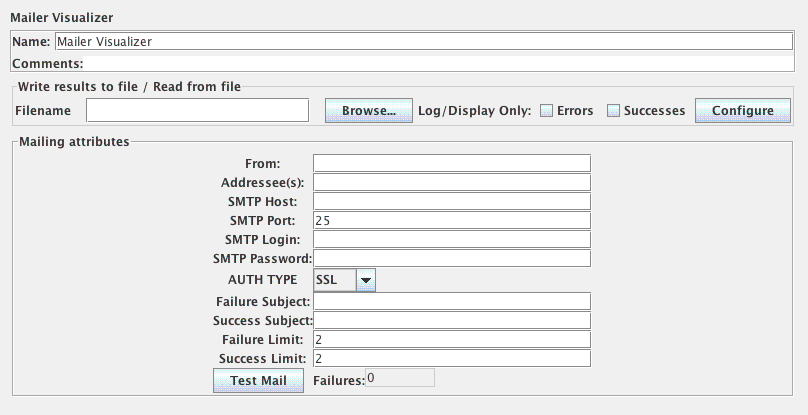
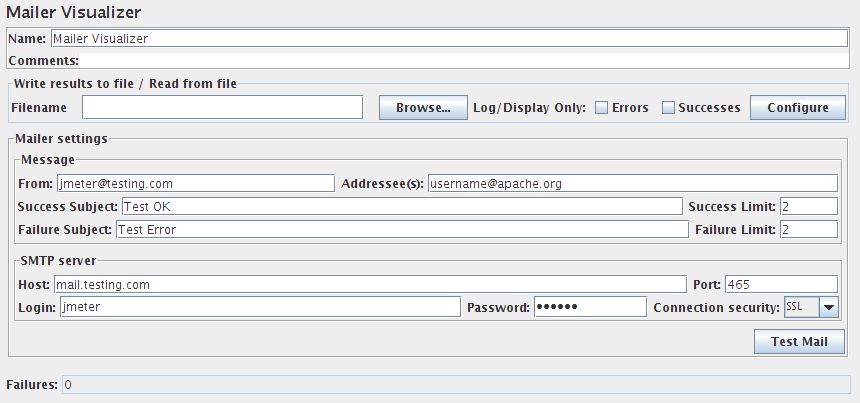
Bug 53246 - Mailer Visualizer: improve GUI design and I18N French translation added
git-svn-id: https://svn.apache.org/repos/asf/jmeter/trunk@1339294 13f79535-47bb-0310-9956-ffa450edef68

Former-commit-id: ed86ac7dc806940eaaa7e022576b7a0851dd6159

Changed region(s): [[0.0, 0.3275, 0.9901, 0.9826], [0.0, 0.0, 0.9901, 0.2978], [0.7735, 0.4764, 0.9282, 0.5955]]

diff --git a/src/components/org/apache/jmeter/visualizers/MailerVisualizer.java b/src/components/org/apache/jmeter/visualizers/MailerVisualizer.java
@@ -19,15 +19,15 @@
 package org.apache.jmeter.visualizers;
 
 import java.awt.BorderLayout;
-import java.awt.GridBagConstraints;
-import java.awt.GridBagLayout;
-import java.awt.Insets;
+import java.awt.Dimension;
+import java.awt.Font;
 import java.awt.event.ActionEvent;
 import java.awt.event.ActionListener;
 
 import javax.mail.MessagingException;
 import javax.mail.internet.AddressException;
 import javax.swing.BorderFactory;
+import javax.swing.Box;
 import javax.swing.JButton;
 import javax.swing.JComboBox;
 import javax.swing.JLabel;
@@ -93,10 +93,6 @@ public class MailerVisualizer extends AbstractVisualizer implements ActionListen
 
     private JComboBox authTypeCombo;
 
-
-    // private JPanel mainPanel;
-    // private JLabel panelTitleLabel;
-
     /**
      * Constructs the MailerVisualizer and initializes its GUI.
      */
@@ -137,7 +133,7 @@ public class MailerVisualizer extends AbstractVisualizer implements ActionListen
 
     @Override
     public String toString() {
-        return "E-Mail Notification";
+        return JMeterUtils.getResString("mailer_string"); // $NON-NLS-1$
     }
 
     /**
@@ -148,147 +144,155 @@ public class MailerVisualizer extends AbstractVisualizer implements ActionListen
 
         // MAIN PANEL
         JPanel mainPanel = new VerticalPanel();
-        Border margin = new EmptyBorder(10, 10, 5, 10);
-
+        Border margin = new EmptyBorder(5, 10, 5, 10);
         this.setBorder(margin);
 
-        // NAME
         mainPanel.add(makeTitlePanel());
+        
+        JPanel attributePane = new VerticalPanel();
+        attributePane.setBorder(BorderFactory.createTitledBorder(BorderFactory.createEtchedBorder(),
+                JMeterUtils.getResString("mailer_title_settings"))); // $NON-NLS-1$
+        
+        // Settings panes
+        attributePane.add(createMailingSettings());      
+        attributePane.add(createSmtpSettings());
+        
+        // Test mail button
+        JPanel testerPanel = new JPanel(new BorderLayout());
+        testerButton = new JButton(JMeterUtils.getResString("mailer_test_mail")); // $NON-NLS-1$
+        testerButton.addActionListener(this);
+        testerButton.setEnabled(true);
+        testerPanel.add(testerButton, BorderLayout.EAST);
+        attributePane.add(testerPanel);
+        mainPanel.add(attributePane);
+        mainPanel.add(Box.createRigidArea(new Dimension(0,5)));
 
-        // mailer panel
-        JPanel mailerPanel = new JPanel();
+        // Failures count
+        JPanel mailerPanel = new JPanel(new BorderLayout());
+        mailerPanel.add(new JLabel(JMeterUtils.getResString("mailer_failures")), BorderLayout.WEST); // $NON-NLS-1$
+        failureField = new JTextField(6);
+        failureField.setEditable(false);
+        mailerPanel.add(failureField, BorderLayout.CENTER);
+        mainPanel.add(mailerPanel);
 
-        mailerPanel.setBorder(BorderFactory
-                .createTitledBorder(BorderFactory.createEtchedBorder(), getAttributesTitle()));
-        GridBagLayout g = new GridBagLayout();
-
-        mailerPanel.setLayout(g);
-        GridBagConstraints c = new GridBagConstraints();
-
-        c.anchor = GridBagConstraints.NORTHWEST;
-        c.insets = new Insets(0, 0, 0, 0);
-        c.gridwidth = 1;
-        mailerPanel.add(new JLabel("From:"));
-
+        this.add(mainPanel, BorderLayout.CENTER);
+    }
+    
+    private JPanel createMailingSettings() {
+        JPanel settingsPane = new JPanel(new BorderLayout());
+        settingsPane.setBorder(BorderFactory.createTitledBorder(BorderFactory.createEtchedBorder(),
+                JMeterUtils.getResString("mailer_title_message"))); // $NON-NLS-1$
+        
+        JPanel headerPane = new JPanel(new BorderLayout());
+        headerPane.setBorder(BorderFactory.createEmptyBorder(2, 0, 2, 0));
+        JPanel fromPane = new JPanel(new BorderLayout());
+        fromPane.add(new JLabel(JMeterUtils.getResString("mailer_from")), BorderLayout.WEST); // $NON-NLS-1$
         fromField = new JTextField(25);
         fromField.setEditable(true);
-        c.gridwidth = GridBagConstraints.REMAINDER;
-        g.setConstraints(fromField, c);
-        mailerPanel.add(fromField);
-
-        c.anchor = GridBagConstraints.NORTHWEST;
-        c.insets = new Insets(0, 0, 0, 0);
-        c.gridwidth = 1;
-        mailerPanel.add(new JLabel("Addressee(s):"));
-
-        addressField = new JTextField(25);
+        fromPane.add(fromField, BorderLayout.CENTER);
+        fromPane.add(Box.createRigidArea(new Dimension(5,0)), BorderLayout.EAST);
+        headerPane.add(fromPane, BorderLayout.WEST);
+        JPanel addressPane = new JPanel(new BorderLayout());
+        addressPane.add(new JLabel(JMeterUtils.getResString("mailer_addressees")), BorderLayout.WEST); // $NON-NLS-1$
+        addressField = new JTextField(10);
         addressField.setEditable(true);
-        c.gridwidth = GridBagConstraints.REMAINDER;
-        g.setConstraints(addressField, c);
-        mailerPanel.add(addressField);
-
-        c.gridwidth = 1;
-        mailerPanel.add(new JLabel("SMTP Host:"));
-
-        smtpHostField = new JTextField(25);
-        smtpHostField.setEditable(true);
-        c.gridwidth = GridBagConstraints.REMAINDER;
-        g.setConstraints(smtpHostField, c);
-        mailerPanel.add(smtpHostField);
-
-        c.gridwidth = 1;
-        mailerPanel.add(new JLabel("SMTP Port:"));
-
-        smtpPortField = new JTextField(25);
-        smtpPortField.setEditable(true);
-        c.gridwidth = GridBagConstraints.REMAINDER;
-        g.setConstraints(smtpPortField, c);
-        mailerPanel.add(smtpPortField);
-
-        c.gridwidth = 1;
-        mailerPanel.add(new JLabel("SMTP Login:"));
-
-        smtpLoginField = new JTextField(25);
-        smtpLoginField.setEditable(true);
-        c.gridwidth = GridBagConstraints.REMAINDER;
-        g.setConstraints(smtpLoginField, c);
-        mailerPanel.add(smtpLoginField);
-
-        c.gridwidth = 1;
-        mailerPanel.add(new JLabel("SMTP Password:"));
-
-        smtpPasswordField = new JPasswordField(25);
-        smtpPasswordField.setEditable(true);
-        c.gridwidth = GridBagConstraints.REMAINDER;
-        g.setConstraints(smtpPasswordField, c);
-        mailerPanel.add(smtpPasswordField);
-
-        c.gridwidth = 1;
-        mailerPanel.add(new JLabel("AUTH TYPE"));
+        addressPane.add(addressField, BorderLayout.CENTER);
+        headerPane.add(addressPane, BorderLayout.CENTER);
         
+        JPanel successPane = new JPanel(new BorderLayout());
+        successPane.setBorder(BorderFactory.createEmptyBorder(2, 0, 2, 0));
+        JPanel succesSubjectPane = new JPanel(new BorderLayout());
+        succesSubjectPane.add(new JLabel(JMeterUtils.getResString("mailer_success_subject")), BorderLayout.WEST); // $NON-NLS-1$
+        successSubjectField = new JTextField(10);
+        successSubjectField.setEditable(true);
+        succesSubjectPane.add(successSubjectField, BorderLayout.CENTER);
+        succesSubjectPane.add(Box.createRigidArea(new Dimension(5,0)), BorderLayout.EAST);
+        successPane.add(succesSubjectPane, BorderLayout.CENTER);
+        JPanel successLimitPane = new JPanel(new BorderLayout());
+        successLimitPane.add(new JLabel(JMeterUtils.getResString("mailer_success_limit")), BorderLayout.WEST); // $NON-NLS-1$
+        successLimitField = new JTextField("2", 5); // $NON-NLS-1$
+        successLimitField.setEditable(true);
+        successLimitPane.add(successLimitField, BorderLayout.CENTER);
+        successPane.add(successLimitPane, BorderLayout.EAST);
+        
+        JPanel failurePane = new JPanel(new BorderLayout());
+        failurePane.setBorder(BorderFactory.createEmptyBorder(2, 0, 2, 0));
+        JPanel failureSubjectPane = new JPanel(new BorderLayout());
+        failureSubjectPane.add(new JLabel(JMeterUtils.getResString("mailer_failure_subject")), BorderLayout.WEST); // $NON-NLS-1$
+        failureSubjectField = new JTextField(10);
+        failureSubjectField.setEditable(true);
+        failureSubjectPane.add(failureSubjectField, BorderLayout.CENTER);
+        failureSubjectPane.add(Box.createRigidArea(new Dimension(5,0)), BorderLayout.EAST);
+        failurePane.add(failureSubjectPane, BorderLayout.CENTER);
+        JPanel failureLimitPane = new JPanel(new BorderLayout());
+        failureLimitPane.add(new JLabel(JMeterUtils.getResString("mailer_failure_limit")), BorderLayout.WEST); // $NON-NLS-1$
+        failureLimitField = new JTextField("2", 5); // $NON-NLS-1$
+        failureLimitField.setEditable(true);
+        failureLimitPane.add(failureLimitField, BorderLayout.CENTER);
+        failurePane.add(failureLimitPane, BorderLayout.EAST);
+        
+        settingsPane.add(headerPane, BorderLayout.NORTH);
+        settingsPane.add(successPane, BorderLayout.CENTER);
+        settingsPane.add(failurePane, BorderLayout.SOUTH);
+        
+        return settingsPane;
+    }
+
+    private JPanel createSmtpSettings() {
+        JPanel settingsPane = new JPanel(new BorderLayout());
+        settingsPane.setBorder(BorderFactory.createTitledBorder(BorderFactory.createEtchedBorder(),
+                JMeterUtils.getResString("mailer_title_smtpserver"))); // $NON-NLS-1$
+        
+        JPanel hostPane = new JPanel(new BorderLayout());
+        hostPane.setBorder(BorderFactory.createEmptyBorder(2, 0, 2, 0));
+        JPanel smtpHostPane = new JPanel(new BorderLayout());
+        smtpHostPane.add(new JLabel(JMeterUtils.getResString("mailer_host")), BorderLayout.WEST); // $NON-NLS-1$
+        smtpHostField = new JTextField(10);
+        smtpHostField.setEditable(true);
+        smtpHostPane.add(smtpHostField, BorderLayout.CENTER);
+        smtpHostPane.add(Box.createRigidArea(new Dimension(5,0)), BorderLayout.EAST);
+        hostPane.add(smtpHostPane, BorderLayout.CENTER);
+        JPanel smtpPortPane = new JPanel(new BorderLayout());
+        smtpPortPane.add(new JLabel(JMeterUtils.getResString("mailer_port")), BorderLayout.WEST); // $NON-NLS-1$
+        smtpPortField = new JTextField(10);
+        smtpPortField.setEditable(true);
+        smtpPortPane.add(smtpPortField, BorderLayout.CENTER);
+        hostPane.add(smtpPortPane, BorderLayout.EAST);
+
+        JPanel authPane = new JPanel(new BorderLayout());
+        hostPane.setBorder(BorderFactory.createEmptyBorder(2, 0, 2, 0));
+        JPanel smtpLoginPane = new JPanel(new BorderLayout());
+        smtpLoginPane.add(new JLabel(JMeterUtils.getResString("mailer_login")), BorderLayout.WEST); // $NON-NLS-1$
+        smtpLoginField = new JTextField(10);
+        smtpLoginField.setEditable(true);
+        smtpLoginPane.add(smtpLoginField, BorderLayout.CENTER);
+        smtpLoginPane.add(Box.createRigidArea(new Dimension(5,0)), BorderLayout.EAST);
+        authPane.add(smtpLoginPane, BorderLayout.CENTER);
+        JPanel smtpPasswordPane = new JPanel(new BorderLayout());
+        smtpPasswordPane.add(new JLabel(JMeterUtils.getResString("mailer_password")), BorderLayout.WEST); // $NON-NLS-1$
+        smtpPasswordField = new JPasswordField(10);
+        smtpPasswordField.setEditable(true);
+        smtpPasswordPane.add(smtpPasswordField, BorderLayout.CENTER);
+        smtpPasswordPane.add(Box.createRigidArea(new Dimension(5,0)), BorderLayout.EAST);
+        authPane.add(smtpPasswordPane, BorderLayout.EAST);
+
+        JPanel authTypePane = new JPanel(new BorderLayout());
+        authTypePane.add(new JLabel(JMeterUtils.getResString("mailer_connection_security")), BorderLayout.WEST);
         authTypeCombo = new JComboBox(new Object[] { 
                 MailerModel.MailAuthType.NONE.toString(), 
                 MailerModel.MailAuthType.SSL.toString(),
                 MailerModel.MailAuthType.TLS.toString()});
-        c.gridwidth = GridBagConstraints.REMAINDER;
-        g.setConstraints(authTypeCombo, c);
-        mailerPanel.add(authTypeCombo);
+        authTypeCombo.setFont(new Font("SansSerif", Font.PLAIN, 10)); // $NON-NLS-1$
+        authTypePane.add(authTypeCombo, BorderLayout.CENTER);
         
+        JPanel credPane = new JPanel(new BorderLayout());
+        credPane.add(authPane, BorderLayout.CENTER);
+        credPane.add(authTypePane, BorderLayout.EAST);
         
-        c.gridwidth = 1;
-        mailerPanel.add(new JLabel("Failure Subject:"));
-
-        failureSubjectField = new JTextField(25);
-        failureSubjectField.setEditable(true);
-        c.gridwidth = GridBagConstraints.REMAINDER;
-        g.setConstraints(failureSubjectField, c);
-        mailerPanel.add(failureSubjectField);
-
-        c.gridwidth = 1;
-        mailerPanel.add(new JLabel("Success Subject:"));
-
-        successSubjectField = new JTextField(25);
-        successSubjectField.setEditable(true);
-        c.gridwidth = GridBagConstraints.REMAINDER;
-        g.setConstraints(successSubjectField, c);
-        mailerPanel.add(successSubjectField);
-
-        c.gridwidth = 1;
-        mailerPanel.add(new JLabel("Failure Limit:"));
-
-        failureLimitField = new JTextField("2", 25);
-        failureLimitField.setEditable(true);
-        c.gridwidth = GridBagConstraints.REMAINDER;
-        g.setConstraints(failureLimitField, c);
-        mailerPanel.add(failureLimitField);
-
-        c.gridwidth = 1;
-        mailerPanel.add(new JLabel("Success Limit:"));
-
-        successLimitField = new JTextField("2", 25);
-        successLimitField.setEditable(true);
-        c.gridwidth = GridBagConstraints.REMAINDER;
-        g.setConstraints(successLimitField, c);
-        mailerPanel.add(successLimitField);
-
-        testerButton = new JButton("Test Mail");
-        testerButton.addActionListener(this);
-        testerButton.setEnabled(true);
-        c.gridwidth = 1;
-        g.setConstraints(testerButton, c);
-        mailerPanel.add(testerButton);
-
-        c.gridwidth = 1;
-        mailerPanel.add(new JLabel("Failures:"));
-        failureField = new JTextField(6);
-        failureField.setEditable(false);
-        c.gridwidth = GridBagConstraints.REMAINDER;
-        g.setConstraints(failureField, c);
-        mailerPanel.add(failureField);
-
-        mainPanel.add(mailerPanel);
-
-        this.add(mainPanel, BorderLayout.WEST);
+        settingsPane.add(hostPane, BorderLayout.NORTH);
+        settingsPane.add(credPane, BorderLayout.CENTER);
+        
+        return settingsPane;
     }
 
     public String getLabelResource() {
@@ -425,7 +429,8 @@ public class MailerVisualizer extends AbstractVisualizer implements ActionListen
         } else {
             type = JOptionPane.INFORMATION_MESSAGE;
         }
-        JOptionPane.showMessageDialog(null, message, isError ? "Error" : "Information", type);
+        JOptionPane.showMessageDialog(null, message, isError ? 
+                JMeterUtils.getResString("mailer_msg_title_error") : JMeterUtils.getResString("mailer_msg_title_information"), type);
     }
 
     /**
